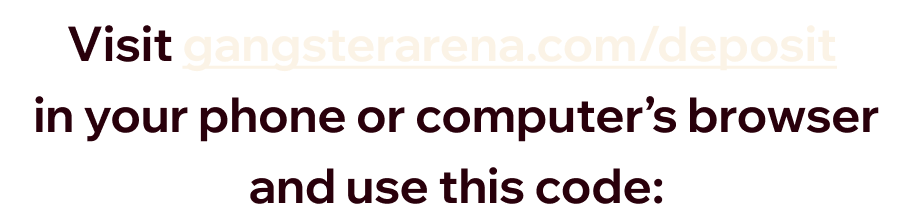
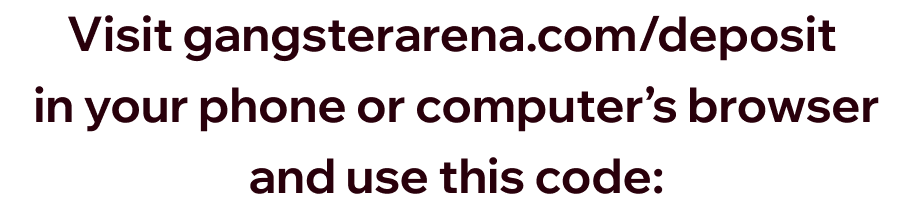
fix: disable link to deposit page

diff --git a/app/src/pages/Game/components/popup/PopupDepositETH.js b/app/src/pages/Game/components/popup/PopupDepositETH.js
@@ -1,5 +1,3 @@
-import Phaser from 'phaser';
-
 import Popup from './Popup';
 import TextButton from '../button/TextButton';
 import Button from '../button/Button';
@@ -11,8 +9,9 @@ const { width, height } = configs;
 class PopupDepositETH extends Popup {
   code = '-----';
 
-  constructor(scene) {
+  constructor(scene, { onClose } = {}) {
     super(scene, 'popup-small', { title: 'Deposit ETH' });
+    this.cleanup = onClose;
 
     const leftMargin = this.popup.x - this.popup.width / 2;
     const startingY = this.popup.y - this.popup.height / 2;
@@ -20,7 +19,6 @@ class PopupDepositETH extends Popup {
     const depositCodeY = instructionY + 340;
 
     const instruction = scene.add.image(width / 2, instructionY, 'deposit-instruction');
-    const depositLink = scene.add.image(width / 2, instructionY, 'deposit-link');
     const textContainer = scene.add.image(width / 2, depositCodeY, 'text-container');
     const depositCode = scene.add
       .text(width / 2, depositCodeY, '- - -  - - -', {
@@ -39,7 +37,6 @@ class PopupDepositETH extends Popup {
     );
 
     this.add(instruction);
-    this.add(depositLink);
     this.add(textContainer);
     this.add(depositCode);
     this.add(copyButton);
@@ -58,16 +55,6 @@ class PopupDepositETH extends Popup {
       { fontSize: '82px', sound: 'close' }
     );
     this.add(buttonBack);
-
-    depositLink
-      .setInteractive()
-      .on(Phaser.Input.Events.GAMEOBJECT_POINTER_DOWN, () => {
-        depositLink.setAlpha(0.5);
-      })
-      .on(Phaser.Input.Events.GAMEOBJECT_POINTER_UP, () => {
-        depositLink.setAlpha(1);
-        window.open(`${process.env.PUBLIC_URL}/deposit/user?code=${this.code}`);
-      });
 
     scene.game.events.on('update-deposit-code', (code) => {
       this.code = code;

diff --git a/app/src/pages/Game/scenes/TutorialScene.js b/app/src/pages/Game/scenes/TutorialScene.js
@@ -18,6 +18,7 @@ import PopupLeaderboard from '../components/popup/PopupLeaderboard';
 import PopupDeposit from '../components/popup/PopupDeposit';
 import PopupPrizePool from '../components/popup/PopupPrizePool';
 import Tutorial from '../components/tutorials/Tutorial';
+import PopupDepositETH from '../components/popup/PopupDepositETH';
 
 const { goonAnimation, gangsterAnimation, width, height } = configs;
 
@@ -65,18 +66,22 @@ class TutorialScene extends Phaser.Scene {
     const gangsterHouse = new GangsterHouse(this, 2200, { isSimulator: true }); // done
     this.add.existing(gangsterHouse);
 
+    const endTutorial = () => {
+      this.game.events.emit('simulator-end');
+      this.scene.stop();
+      this.scene.start('MainScene');
+    };
     this.popupDeposit = new PopupDeposit(this, null, {
       isSimulator: true,
       onOpen: () => {
         this.tutorial.step16.setVisible(false);
       },
-      onClose: () => {
-        this.game.events.emit('simulator-end');
-        this.scene.stop();
-        this.scene.start('MainScene');
-      },
+      onClose: endTutorial,
     }); // done
     this.add.existing(this.popupDeposit);
+
+    this.popupDepositETH = new PopupDepositETH(this, { onClose: endTutorial });
+    this.add.existing(this.popupDepositETH);
 
     this.popupBuy = new PopupBuy(this, width - 335, 1600); // done
     this.add.existing(this.popupBuy);

diff --git a/app/src/pages/Game/components/popup/PopupDeposit.js b/app/src/pages/Game/components/popup/PopupDeposit.js
@@ -66,12 +66,15 @@ class PopupDeposit extends Popup {
       'button-deposit',
       'button-deposit-pressed',
       () => {
+        if (isSimulator && this.cleanup && scene.popupDepositETH) {
+          scene.popupDepositETH.cleanup = this.cleanup;
+          this.cleanup = () => {};
+        }
         this.close();
         scene.popupDepositETH?.open();
       },
       { sound: 'open', disabledImage: 'button-deposit-disabled' }
     );
-    depositButton.setDisabledState(isSimulator);
 
     const baseName = scene.add
       .text(paddedX, baseContainerY, 'Deposit ETH, Coins or NFTs', sectionNameStyle)

diff --git a/app/src/pages/Game/scenes/LoadingScene.js b/app/src/pages/Game/scenes/LoadingScene.js
@@ -287,7 +287,6 @@ class LoadingScene extends Phaser.Scene {
     this.load.image('settings-wallet-container', '/images/settings-wallet-container.png');
     this.load.image('view-transaction', '/images/texts/view-transaction.png');
     this.load.image('deposit-instruction', '/images/texts/deposit-instruction.png');
-    this.load.image('deposit-link', '/images/texts/deposit-link.png');
     this.load.image('swap', '/images/swap.png');
 
     this.load.image('icon-chevron-right', '/images/icons/chevron-right.png');
